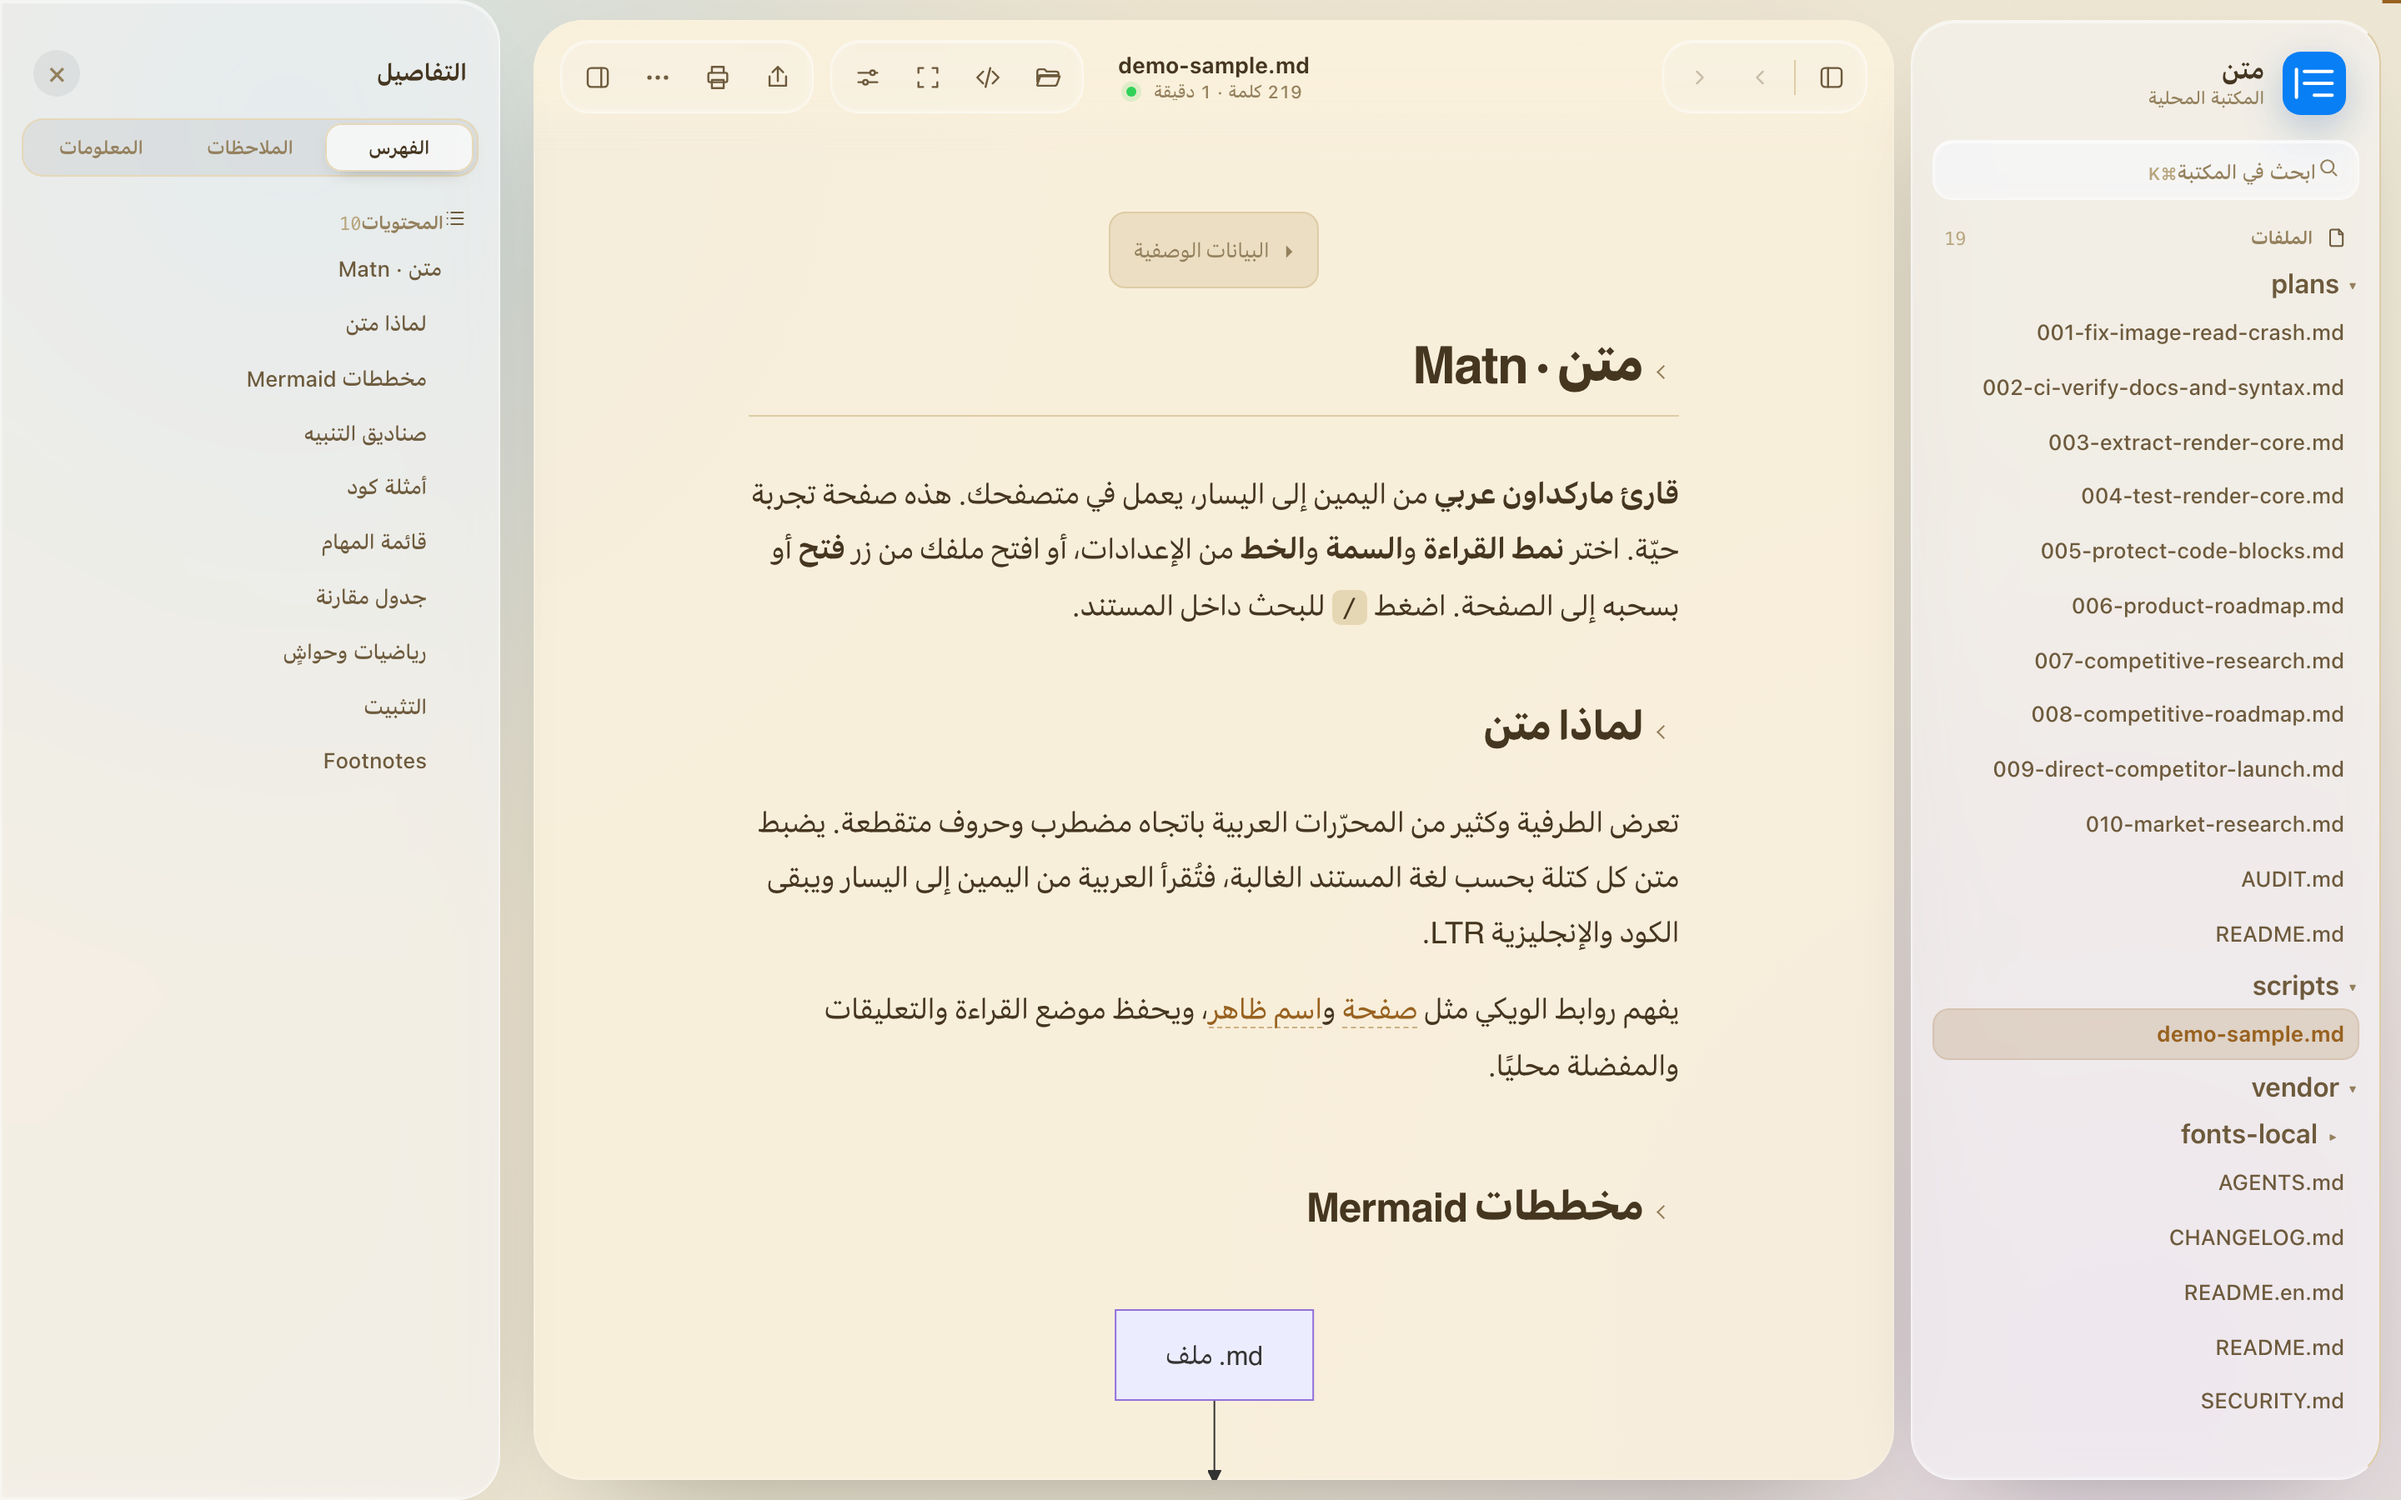
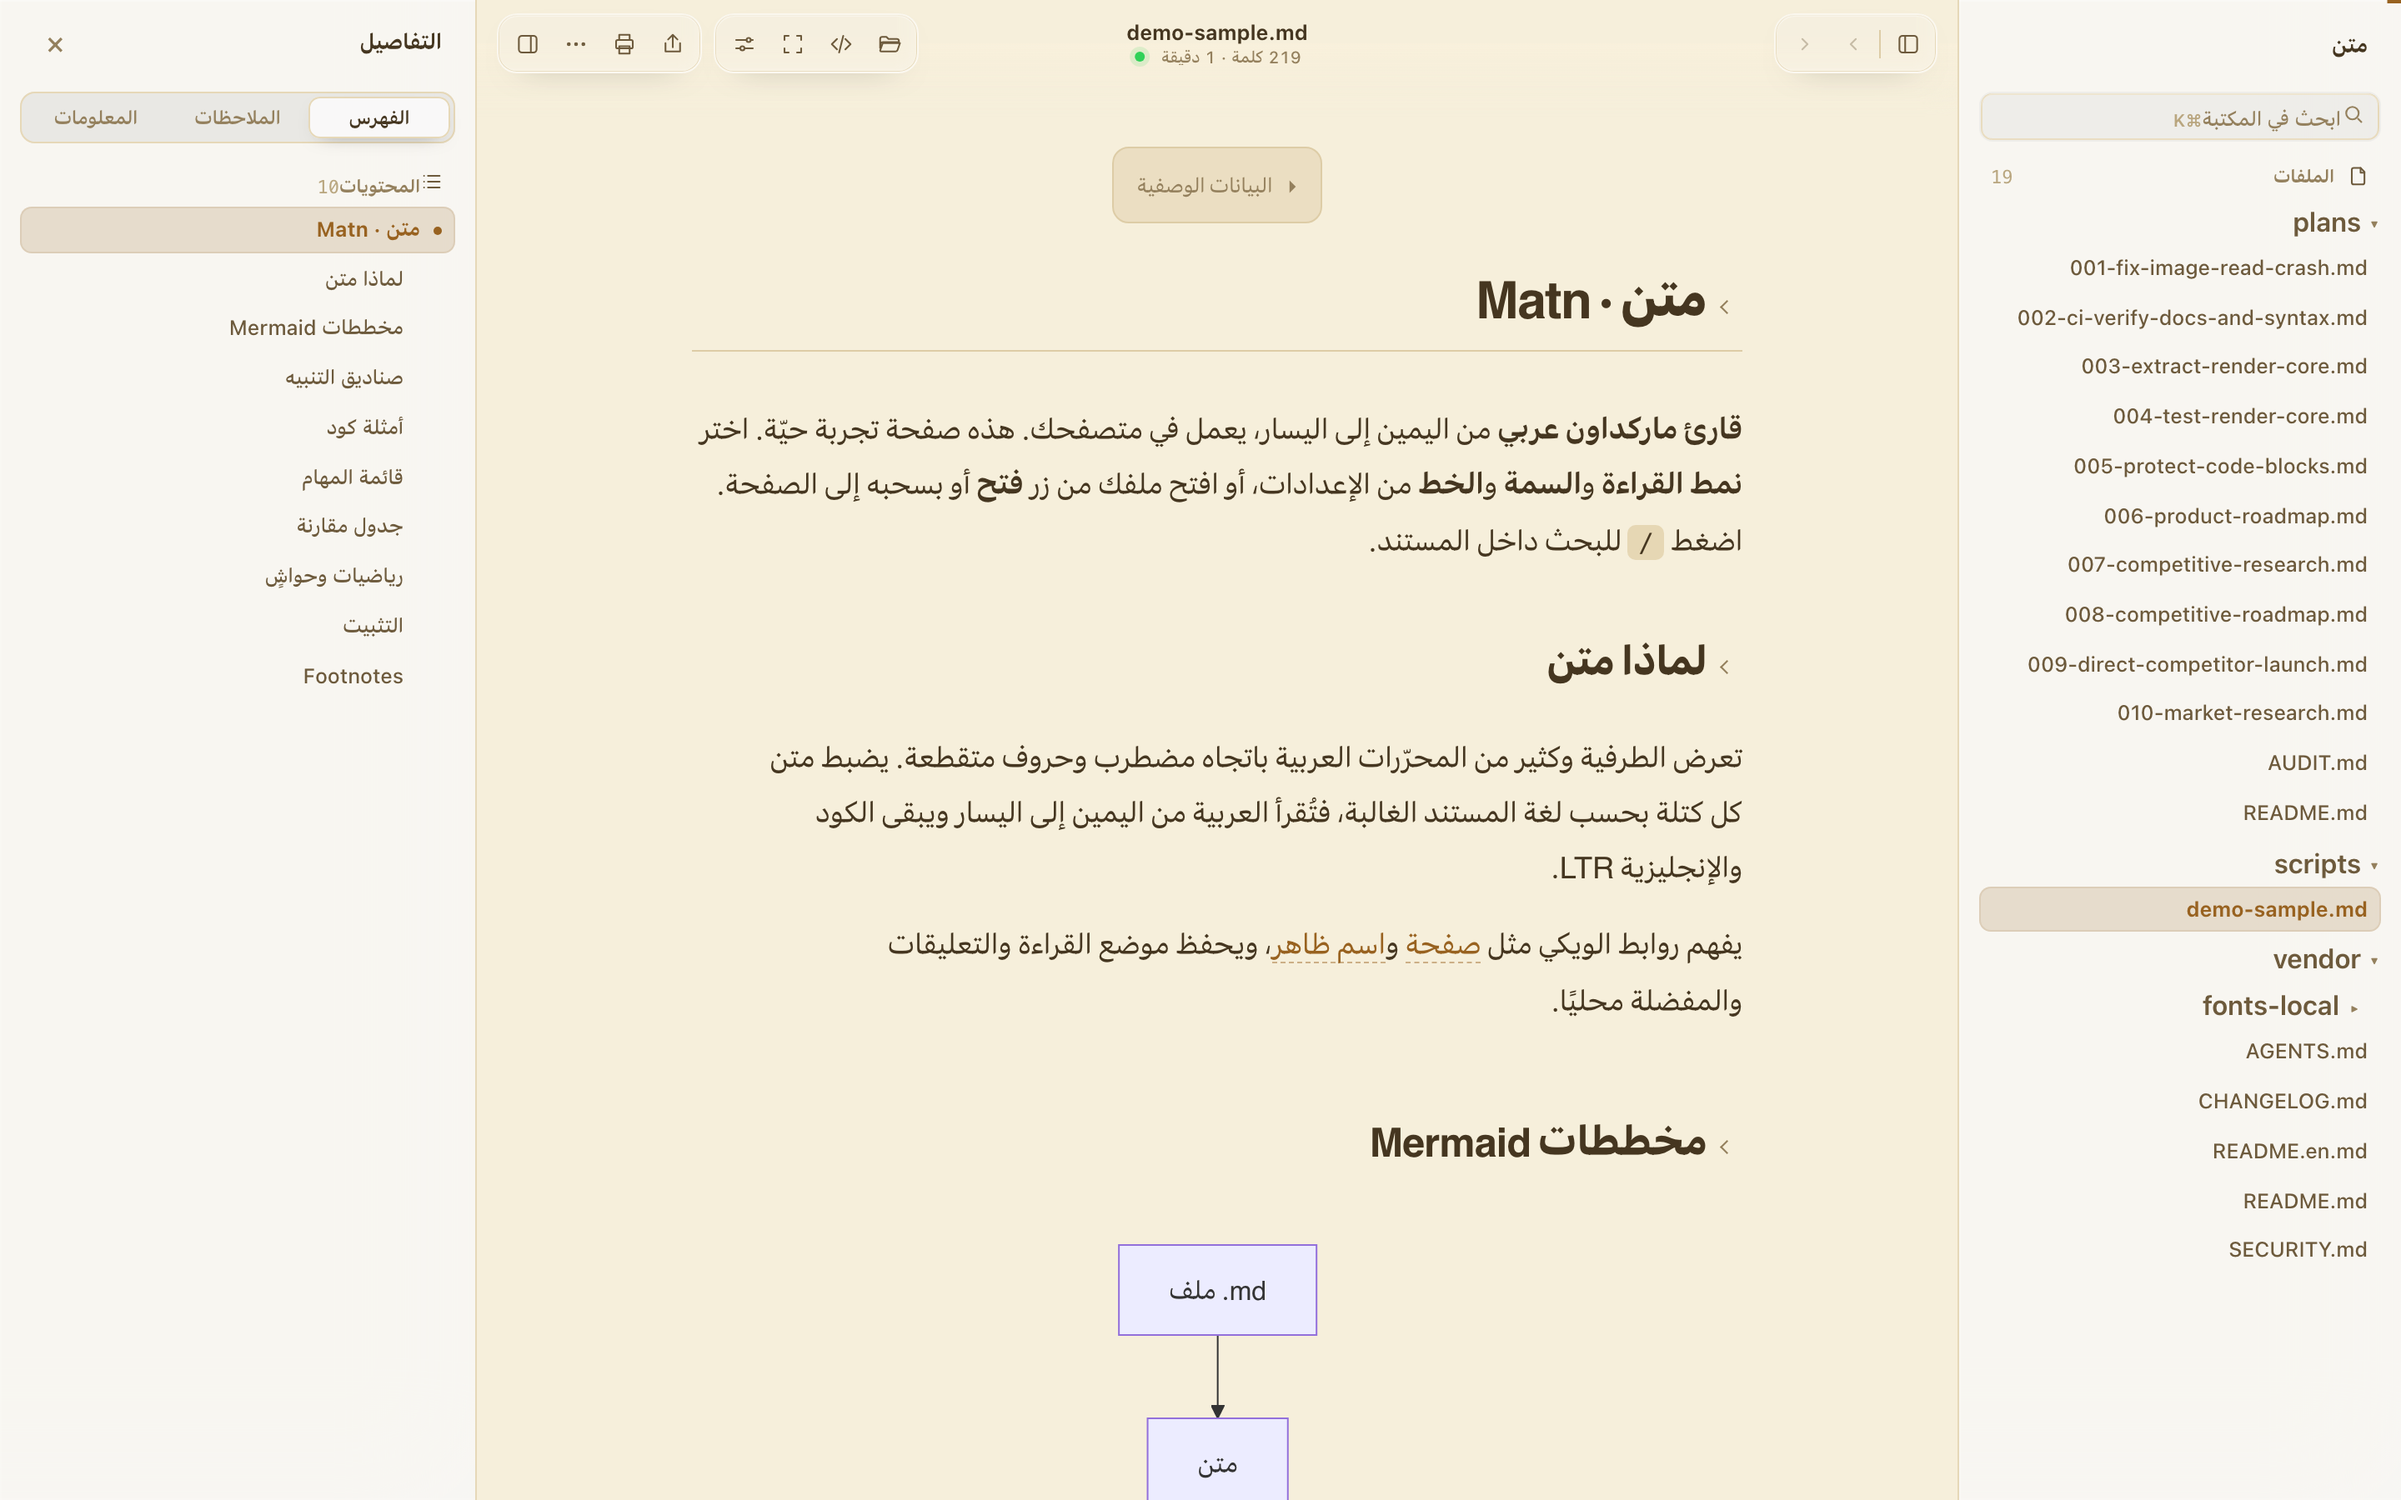
feat: reshape Matn as a native macOS window

diff --git a/docs/index.html b/docs/index.html
@@ -472,6 +472,33 @@ main::-webkit-scrollbar-corner,aside::-webkit-scrollbar-corner,#sourceview::-web
 @media (prefers-reduced-transparency:reduce){.liquid-glass,.toolbar-group,.sidebar-search,.panel,.menu,.quick,.map-card,.selection-tools,.note-dialog,.trash-dialog,.findbar,.link-preview,aside#side,aside#inspector{background:var(--raised);backdrop-filter:none;-webkit-backdrop-filter:none}.liquid-glass::after,.toolbar-group::before,.toolbar-group::after,.sidebar-search::after,.panel::after,.menu::after,.quick::after,.map-card::after,.selection-tools::after,.note-dialog::after,.trash-dialog::after,.findbar::after,.link-preview::after{display:none}}
 @media (prefers-contrast:more){.liquid-glass,.toolbar-group,.sidebar-search,.panel,.menu,.quick,.map-card,.selection-tools,.note-dialog,.trash-dialog,.findbar,.link-preview,aside#side,aside#inspector{background:var(--raised);border-color:var(--ink-soft);backdrop-filter:none;-webkit-backdrop-filter:none}.iconbtn{color:var(--ink)}}
 
+/* macOS window anatomy: one continuous window, not three floating web cards. */
+#grain{display:none}
+body{padding:0;gap:0;background:var(--content-layer)}
+main{height:100dvh;border-radius:0;background:var(--raised);box-shadow:none}
+aside#side,aside#inspector{height:100dvh;margin:0;border:0;border-radius:0;box-shadow:none;padding:0 12px 24px;background:rgb(246 247 249/.78);-webkit-backdrop-filter:blur(36px) saturate(165%);backdrop-filter:blur(36px) saturate(165%)}
+html[data-theme="dark"] aside#side,html[data-theme="dark"] aside#inspector{background:rgb(30 30 32/.82);-webkit-backdrop-filter:blur(36px) saturate(145%);backdrop-filter:blur(36px) saturate(145%)}
+html[data-theme="night"] aside#side,html[data-theme="night"] aside#inspector{background:rgb(10 10 11/.88);-webkit-backdrop-filter:blur(30px) saturate(125%);backdrop-filter:blur(30px) saturate(125%)}
+aside#side{width:266px;flex-basis:266px;border-inline-end:1px solid var(--line-soft)}
+aside#inspector{width:286px;flex-basis:286px;border-inline-start:1px solid var(--line-soft)}
+html[dir="rtl"] aside#inspector,html[dir="ltr"] aside#inspector{margin:0;border-radius:0}
+.sidebar-head,.inspector-head{height:52px;padding:0 8px;align-items:center}
+.brand-mark{display:none}.sidebar-head>span:last-child{display:block}.sidebar-head strong{font:650 .82rem/1 var(--ui)}.sidebar-head small{display:none}
+.inspector-head strong{font:650 .82rem/1 var(--ui)}.inspector-head button{width:26px;height:26px;background:transparent;transition:background-color 120ms ease,color 120ms ease,transform 100ms var(--ease-press)}.inspector-head button:hover{background:var(--fill-hover);color:var(--ink)}.inspector-head button:active{transform:scale(.92)}
+.sidebar-search{height:30px;margin:3px 0 14px;border-radius:8px;padding:0 8px;background:var(--fill);border-color:transparent;box-shadow:inset 0 0 0 1px var(--line-soft);-webkit-backdrop-filter:none;backdrop-filter:none}
+#side h2,#inspector h2{margin-inline:7px;font-size:.68rem}#side nav a,#inspector nav a{padding:5px 8px;border-radius:7px;font-size:.78rem;line-height:1.42}
+.inspector-tabs{margin-top:3px;margin-bottom:16px;border-radius:9px}.inspector-tabs button{height:25px;border-radius:7px}
+header{height:52px;padding:8px 12px;align-items:flex-start;background:transparent}
+header::after{inset:26px 0 -18px}
+.toolbar-group{height:36px;padding:3px;border-radius:12px;gap:1px;box-shadow:inset 0 .5px 0 rgb(255 255 255/.30),inset 0 0 0 .5px var(--line-soft),0 7px 20px -15px rgb(0 0 0/.55)}
+.toolbar-actions{gap:7px}.toolbar-divider{height:17px;margin:0 1px}
+.iconbtn{width:28px;min-width:28px;height:28px;border-radius:8px}.iconbtn svg{width:15px;height:15px;stroke-width:1.65}
+.window-title{top:6px;height:40px;gap:2px}.window-title .fname{font-size:.78rem}.window-title .meta{font-size:.63rem}
+.reading-pane{min-height:100dvh;margin-top:-52px;padding-top:52px}
+article#doc{padding-top:48px}
+.panel{top:48px;width:340px;max-height:calc(100dvh - 56px);border-radius:16px;padding:15px}.panel .grp{margin-bottom:15px}.panel .lbl{font-size:.66rem}.preset-list button{min-height:66px;border-radius:10px}.themes button{height:36px;border-radius:9px}.sel,.rowbtn,.seg,.seg button{border-radius:8px}
+.menu{border-radius:12px;min-width:196px;padding:5px}.menu button{min-height:30px;border-radius:7px}
+
 @media (min-width:821px){#sidebtn{display:inline-flex}}
 @container (max-width:760px){#openbtn,#focusbtn{display:none}.window-title{max-width:28cqw}.window-title .fname,.window-title-meta{max-width:28cqw}}
 @container (max-width:520px){#gearbtn{display:none}.window-title-meta{display:none}.window-title{max-width:34cqw}.window-title .fname{max-width:34cqw}}

diff --git a/src/index.html b/src/index.html
@@ -472,6 +472,33 @@ main::-webkit-scrollbar-corner,aside::-webkit-scrollbar-corner,#sourceview::-web
 @media (prefers-reduced-transparency:reduce){.liquid-glass,.toolbar-group,.sidebar-search,.panel,.menu,.quick,.map-card,.selection-tools,.note-dialog,.trash-dialog,.findbar,.link-preview,aside#side,aside#inspector{background:var(--raised);backdrop-filter:none;-webkit-backdrop-filter:none}.liquid-glass::after,.toolbar-group::before,.toolbar-group::after,.sidebar-search::after,.panel::after,.menu::after,.quick::after,.map-card::after,.selection-tools::after,.note-dialog::after,.trash-dialog::after,.findbar::after,.link-preview::after{display:none}}
 @media (prefers-contrast:more){.liquid-glass,.toolbar-group,.sidebar-search,.panel,.menu,.quick,.map-card,.selection-tools,.note-dialog,.trash-dialog,.findbar,.link-preview,aside#side,aside#inspector{background:var(--raised);border-color:var(--ink-soft);backdrop-filter:none;-webkit-backdrop-filter:none}.iconbtn{color:var(--ink)}}
 
+/* macOS window anatomy: one continuous window, not three floating web cards. */
+#grain{display:none}
+body{padding:0;gap:0;background:var(--content-layer)}
+main{height:100dvh;border-radius:0;background:var(--raised);box-shadow:none}
+aside#side,aside#inspector{height:100dvh;margin:0;border:0;border-radius:0;box-shadow:none;padding:0 12px 24px;background:rgb(246 247 249/.78);-webkit-backdrop-filter:blur(36px) saturate(165%);backdrop-filter:blur(36px) saturate(165%)}
+html[data-theme="dark"] aside#side,html[data-theme="dark"] aside#inspector{background:rgb(30 30 32/.82);-webkit-backdrop-filter:blur(36px) saturate(145%);backdrop-filter:blur(36px) saturate(145%)}
+html[data-theme="night"] aside#side,html[data-theme="night"] aside#inspector{background:rgb(10 10 11/.88);-webkit-backdrop-filter:blur(30px) saturate(125%);backdrop-filter:blur(30px) saturate(125%)}
+aside#side{width:266px;flex-basis:266px;border-inline-end:1px solid var(--line-soft)}
+aside#inspector{width:286px;flex-basis:286px;border-inline-start:1px solid var(--line-soft)}
+html[dir="rtl"] aside#inspector,html[dir="ltr"] aside#inspector{margin:0;border-radius:0}
+.sidebar-head,.inspector-head{height:52px;padding:0 8px;align-items:center}
+.brand-mark{display:none}.sidebar-head>span:last-child{display:block}.sidebar-head strong{font:650 .82rem/1 var(--ui)}.sidebar-head small{display:none}
+.inspector-head strong{font:650 .82rem/1 var(--ui)}.inspector-head button{width:26px;height:26px;background:transparent;transition:background-color 120ms ease,color 120ms ease,transform 100ms var(--ease-press)}.inspector-head button:hover{background:var(--fill-hover);color:var(--ink)}.inspector-head button:active{transform:scale(.92)}
+.sidebar-search{height:30px;margin:3px 0 14px;border-radius:8px;padding:0 8px;background:var(--fill);border-color:transparent;box-shadow:inset 0 0 0 1px var(--line-soft);-webkit-backdrop-filter:none;backdrop-filter:none}
+#side h2,#inspector h2{margin-inline:7px;font-size:.68rem}#side nav a,#inspector nav a{padding:5px 8px;border-radius:7px;font-size:.78rem;line-height:1.42}
+.inspector-tabs{margin-top:3px;margin-bottom:16px;border-radius:9px}.inspector-tabs button{height:25px;border-radius:7px}
+header{height:52px;padding:8px 12px;align-items:flex-start;background:transparent}
+header::after{inset:26px 0 -18px}
+.toolbar-group{height:36px;padding:3px;border-radius:12px;gap:1px;box-shadow:inset 0 .5px 0 rgb(255 255 255/.30),inset 0 0 0 .5px var(--line-soft),0 7px 20px -15px rgb(0 0 0/.55)}
+.toolbar-actions{gap:7px}.toolbar-divider{height:17px;margin:0 1px}
+.iconbtn{width:28px;min-width:28px;height:28px;border-radius:8px}.iconbtn svg{width:15px;height:15px;stroke-width:1.65}
+.window-title{top:6px;height:40px;gap:2px}.window-title .fname{font-size:.78rem}.window-title .meta{font-size:.63rem}
+.reading-pane{min-height:100dvh;margin-top:-52px;padding-top:52px}
+article#doc{padding-top:48px}
+.panel{top:48px;width:340px;max-height:calc(100dvh - 56px);border-radius:16px;padding:15px}.panel .grp{margin-bottom:15px}.panel .lbl{font-size:.66rem}.preset-list button{min-height:66px;border-radius:10px}.themes button{height:36px;border-radius:9px}.sel,.rowbtn,.seg,.seg button{border-radius:8px}
+.menu{border-radius:12px;min-width:196px;padding:5px}.menu button{min-height:30px;border-radius:7px}
+
 @media (min-width:821px){#sidebtn{display:inline-flex}}
 @container (max-width:760px){#openbtn,#focusbtn{display:none}.window-title{max-width:28cqw}.window-title .fname,.window-title-meta{max-width:28cqw}}
 @container (max-width:520px){#gearbtn{display:none}.window-title-meta{display:none}.window-title{max-width:34cqw}.window-title .fname{max-width:34cqw}}
